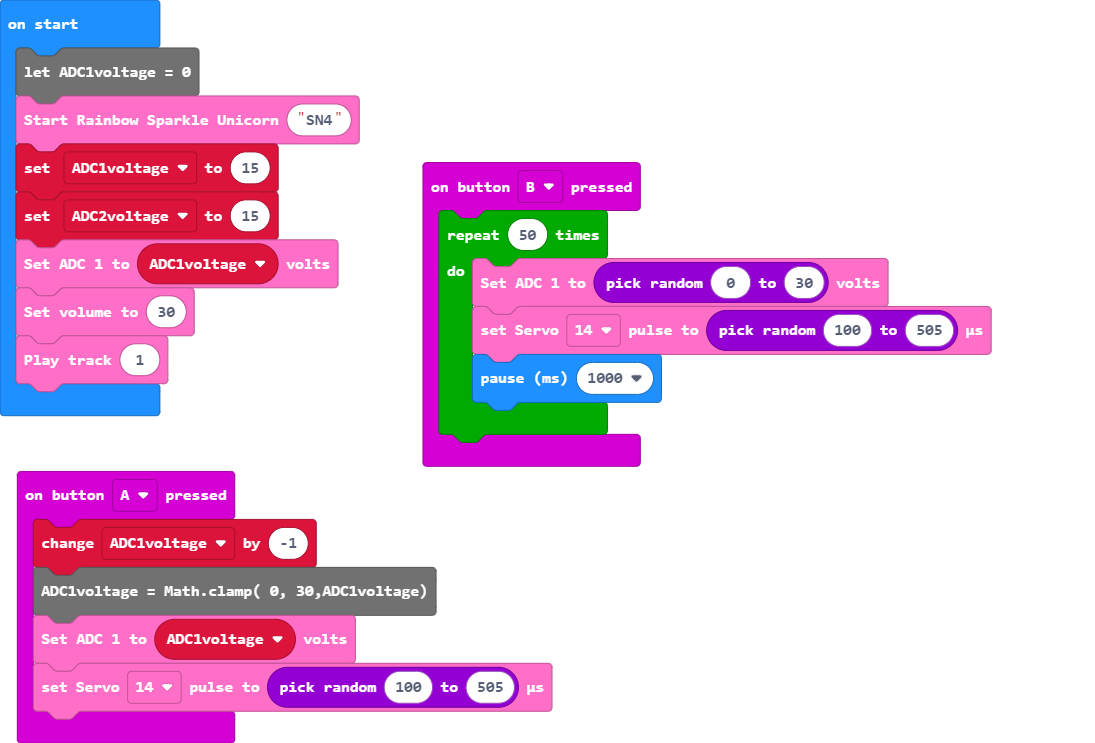
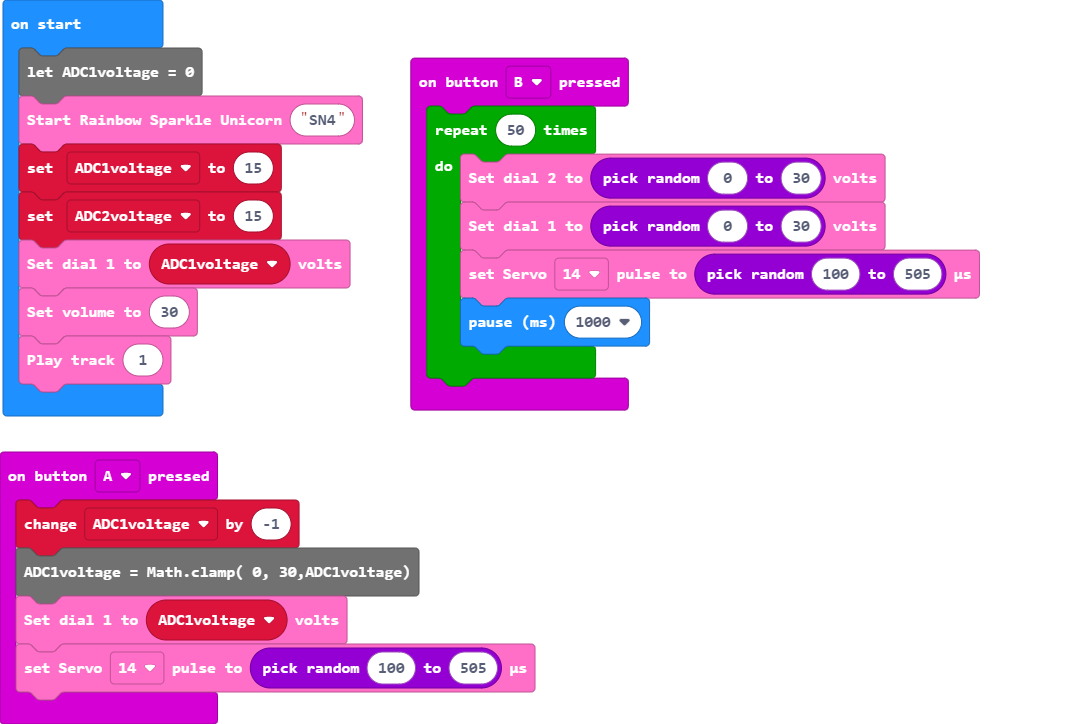
Update pxt.json, main.blocks, main.ts, ESP32.ts

Changed region(s): [[0.3657, 0.0608, 0.9141, 0.6381], [0.0, 0.0, 0.3352, 0.5773], [0.0, 0.6077, 0.518, 1.0]]

diff --git a/ESP32.ts b/ESP32.ts
@@ -5,9 +5,9 @@ namespace RainbowSparkleUnicorn {
      * @param voltage the touch sensor to be checked, eg: 15
      */
     //% subcategory="ADC / DAC" 
-    //% block="Set Dial 1 to $voltage \\volts"
+    //% block="Set dial 1 to $voltage \\volts"
     //% voltage.min=0 voltage.max=30
-    export function Dial1(voltage: number) {
+    export function dial1(voltage: number) {
 
         voltage = Math.clamp(0, 30, voltage)
 
@@ -22,9 +22,9 @@ namespace RainbowSparkleUnicorn {
      * @param voltage the touch sensor to be checked, eg: 15
      */
     //% subcategory="ADC / DAC" 
-    //% block="Set Dial 2 to $voltage \\volts"
+    //% block="Set dial 2 to $voltage \\volts"
     //% voltage.min=0 voltage.max=30
-    export function Dial2(voltage: number) {
+    export function dial2(voltage: number) {
 
         voltage = Math.clamp(0, 30, voltage)
 
@@ -34,33 +34,33 @@ namespace RainbowSparkleUnicorn {
         sendMessage("X2," + mapped)
     }
 
-    /**
-     * Set the DAC to a certain value.
-     * @value the value of the DAC output, eg: 46
-     */
-    //% subcategory="ADC / DAC" 
-    //% block="Set DAC 2 to $value \\volts"
-    //% value.min=0 value.max=255
-    export function DAC2(value: number) {
+    // /**
+    //  * Set the DAC to a certain value.
+    //  * @value the value of the DAC output, eg: 46
+    //  */
+    // //% subcategory="ADC / DAC" 
+    // //% block="Set DAC 2 to $value \\volts"
+    // //% value.min=0 value.max=255
+    // export function DAC2(value: number) {
 
-        value = Math.clamp(0, 255, value)
+    //     value = Math.clamp(0, 255, value)
 
-        sendMessage("X2," + value)
-    }
+    //     sendMessage("X2," + value)
+    // }
 
-       /**
-     * Set the DAC to a certain value.
-     * @value the value of the DAC output, eg: 194
-     */
-    //% subcategory="ADC / DAC" 
-    //% block="Set DAC 1 to $value \\volts"
-    //% value.min=0 value.max=255
-    export function DAC1(value: number) {
+    //    /**
+    //  * Set the DAC to a certain value.
+    //  * @value the value of the DAC output, eg: 194
+    //  */
+    // //% subcategory="ADC / DAC" 
+    // //% block="Set DAC 1 to $value \\volts"
+    // //% value.min=0 value.max=255
+    // export function DAC1(value: number) {
 
-        value = Math.clamp(0, 255, value)
+    //     value = Math.clamp(0, 255, value)
 
-        sendMessage("X1," + value)
-    }
+    //     sendMessage("X1," + value)
+    // }
 
 
 }

diff --git a/main.ts b/main.ts
@@ -1,12 +1,13 @@
 input.onButtonPressed(Button.A, function () {
     ADC1voltage += -1
     ADC1voltage = Math.clamp( 0, 30,ADC1voltage)
-    RainbowSparkleUnicorn.Dial1(ADC1voltage)
+RainbowSparkleUnicorn.dial1(ADC1voltage)
     RainbowSparkleUnicorn.setPulse(Servo.S14, randint(100, 505))
 })
 input.onButtonPressed(Button.B, function () {
     for (let index = 0; index < 50; index++) {
-        RainbowSparkleUnicorn.Dial1(randint(0, 30))
+        RainbowSparkleUnicorn.dial2(randint(0, 30))
+        RainbowSparkleUnicorn.dial1(randint(0, 30))
         RainbowSparkleUnicorn.setPulse(Servo.S14, randint(100, 505))
         basic.pause(1000)
     }
@@ -15,6 +16,6 @@ let ADC1voltage = 0
 RainbowSparkleUnicorn.start("SN4")
 ADC1voltage = 15
 let ADC2voltage = 15
-RainbowSparkleUnicorn.Dial1(ADC1voltage)
+RainbowSparkleUnicorn.dial1(ADC1voltage)
 RainbowSparkleUnicorn.setVolume(30)
 RainbowSparkleUnicorn.playTrack(1)
